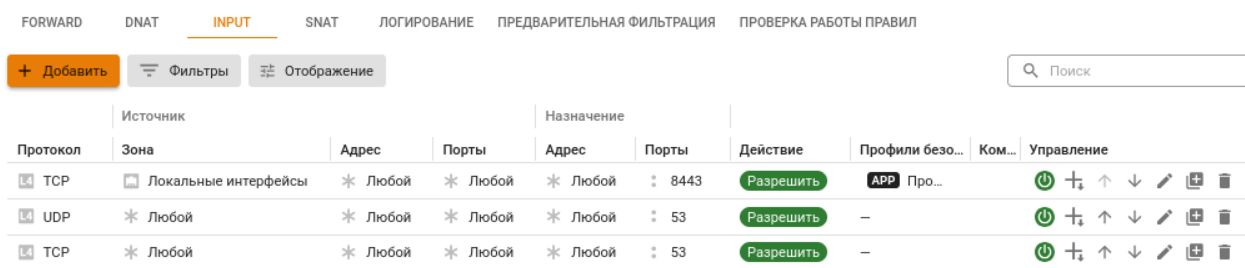
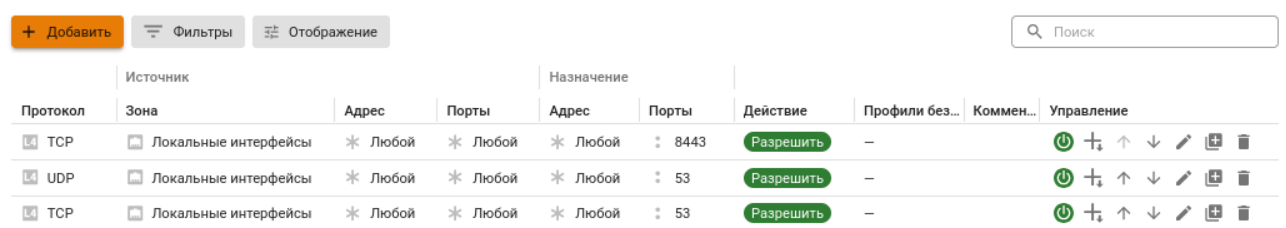
ICS-45871 УТМ. Заменить скриншот в статье Как разрешить доступ к ресурсам в ограниченной сети

diff --git a/recipes/popular-recipes/vpn/connection-for-mobile-devices.md b/recipes/popular-recipes/vpn/connection-for-mobile-devices.md
@@ -24,9 +24,6 @@
 
 <details>
 
-<<<<<<< HEAD
-<summary>Подключение на iOS(iPhone)</summary>
-=======
 <summary>Расшифровка полей</summary>
 
 * **Имя** - имя подключения;
@@ -73,7 +70,6 @@
 {% endtab %}
 
 {% tab title="iOS" %}
->>>>>>> 298d31ed (ICS-43779 УТМ. Добавить инструкцию StrongSwan для iOC)
 
 1\. Перейдите в раздел **Настройки -> Основные -> VPN и управление устройством -> VPN**:
 
